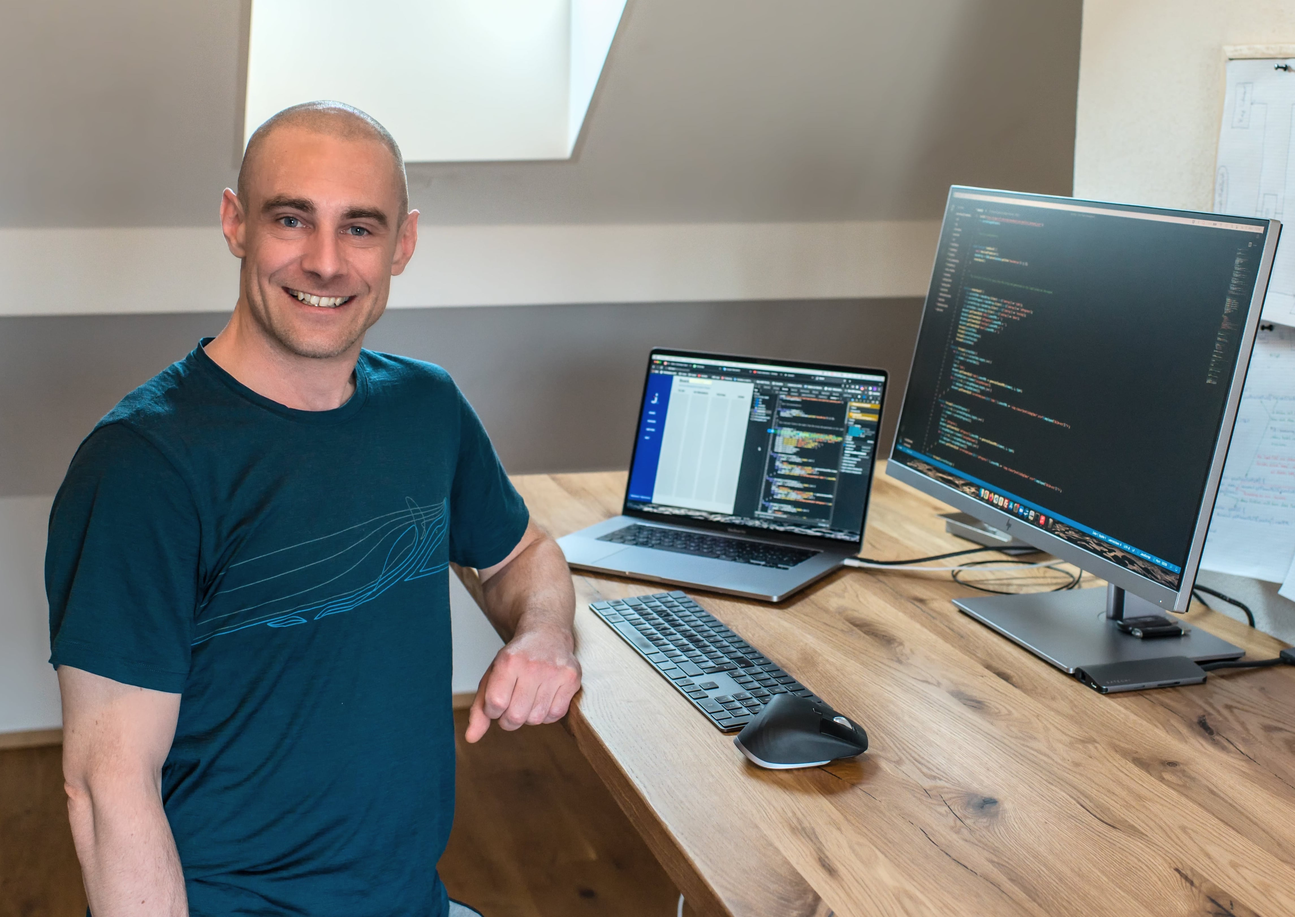
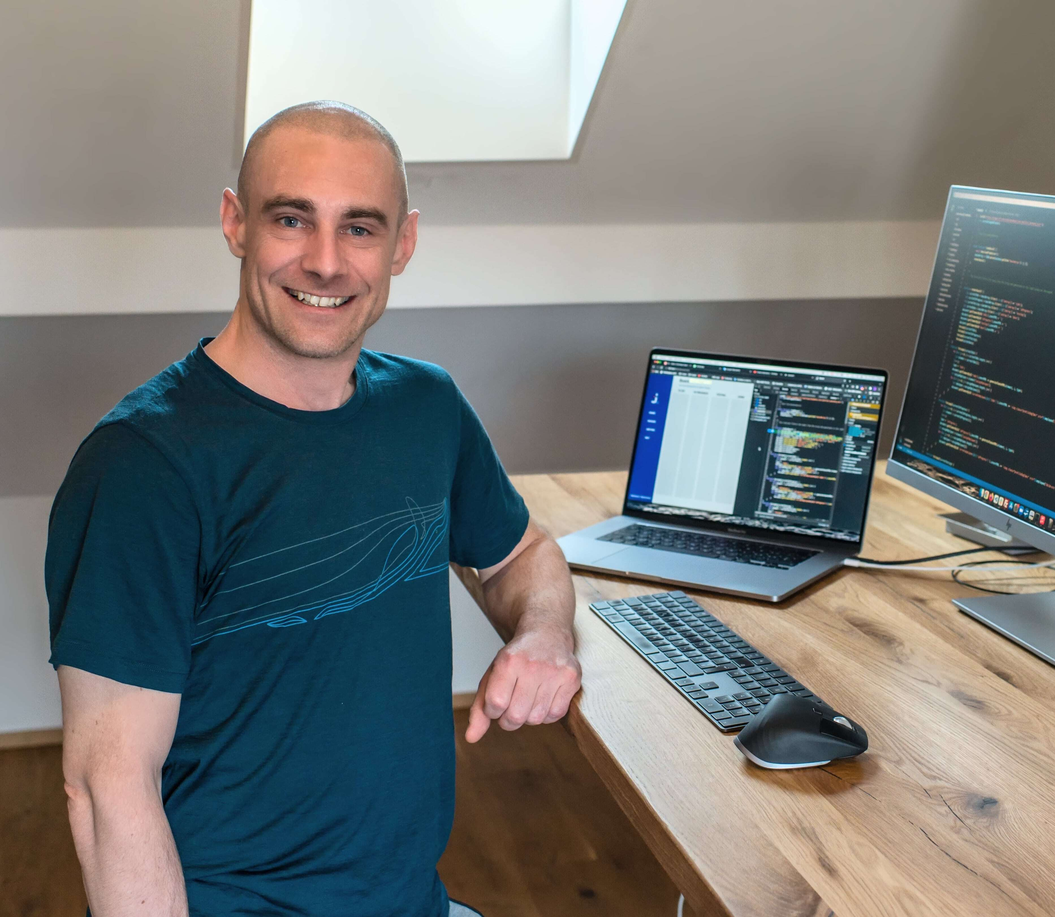
top container ans try responsive

diff --git a/src/app/app.component.scss b/src/app/app.component.scss
@@ -1,52 +1,75 @@
-.imgMe {
+.topCont {
+    background-color: black;
+    width: 100%;
+    max-width: 100%;
+    height: 100vh;
+}
+
+.test {
     position: absolute;
-    width: 750px;
-    height: 650px;
+    top: 0;
+    right: 0;
+    bottom: 0;
     left: 0;
-    top: 125px;
-    object-fit: cover;
-    z-index: 1;
-}
-
-.titelCont {
-    position: absolute;
-    width: 900px;
     height: 900px;
-    left: 540px;
-    top: 0px;
-    background: #181823;
 
-    .titel {
-        position: absolute;
-        width: 720px;
-        height: 263px;
-        left: 121px;
-        top: 273px;
-        font-family: 'Sen';
-        font-style: normal;
-        font-weight: 700;
-        font-size: 65px;
-        line-height: 78px;
-        display: flex;
-        align-items: center;
-        color: #FFFFFF;
-        z-index: 2;
+
+
+    .headerImg {
+        position: relative;
+        left: 0;
+        width: 52.1%;
+        height: 650px;
+        z-index: 1;
+        padding-top: 100%;
+        padding-top: 9%;
+
+        .meImg {
+            width: 100%;
+        }
     }
 
-    p {
+    .secoundBg {
         position: absolute;
-        width: 720px;
-        height: 54px;
-        left: 127px;
-        top: 566px;
-        font-family: 'Sen';
-        font-style: normal;
-        font-weight: 400;
-        font-size: 18px;
-        line-height: 150%;
-        display: flex;
-        align-items: center;
-        color: #FFFFFF;
-        z-index: 2;
+        top: 0;
+        right: 0;
+        width: 62.5vw;
+        height: 900px;
+
+        .contBg {
+            background-color: #181823;
+            position: relative;
+            width: 100%;
+            padding-top: 100%;
+        
+            .titelCont {
+                position: absolute;
+                top: 273px;
+                left: 6vw;
+                right: 59px;
+                height: 263px;
+                font-family: 'Sen';
+                font-style: normal;
+                font-weight: 700;
+                font-size: 65px;
+                line-height: 78px;
+                display: flex;
+                align-items: center;
+                color: #FFFFFF;
+                z-index: 2;
+            
+                .titel {
+                    position: relative;
+                    width: 100%;
+                    padding-top: 0%;
+                }
+            
+            }
+        
+        }
+
     }
+
+
 }
+

diff --git a/src/app/app.component.html b/src/app/app.component.html
@@ -1,14 +1,32 @@
-<img class="imgMe" src="assets/img/me.jpg">
+<div class="header">
 
-<div class="titelCont">
-    <div class="titel">
-        I'm Jürgen Hildbrand.<br>
-        A Front end Developer<br>
-        based in Switzerland.
+
+</div>
+
+<div class="topCont">
+
+
+    <div class="test">
+
+        <div class="headerImg">
+            <img class="meImg" src="assets/img/me.jpg">
+        </div>
+
+        <div class="secoundBg">
+            <div class="contBg">
+                <div class="titelCont">
+                    <div class="titel">
+                        <p>
+                            I'm Jürgen Hildbrand.<br>
+                            A Front end Developer<br>
+                            based in Switzerland.
+                        </p>
+                    </div>
+                </div>
+            </div>
+        </div>
+
     </div>
 
-    <p>
-        Lorem ipsum dolor sit amet consectetur adipisicing elit. Saepe, aut in. Sapiente officiis quia aut laudantium dignissimos voluptas dolor itaque nulla? Id consequatur dolorem, blanditiis ipsa saepe doloremque libero cumque?
-    </p>
 
 </div>

diff --git a/src/styles.scss b/src/styles.scss
@@ -4,3 +4,8 @@ body {
     max-width: 1920px;
     padding: -40px, 72px;
 }
+
+p{
+    margin-block-start: 0;
+            margin-block-end: 0;
+}
